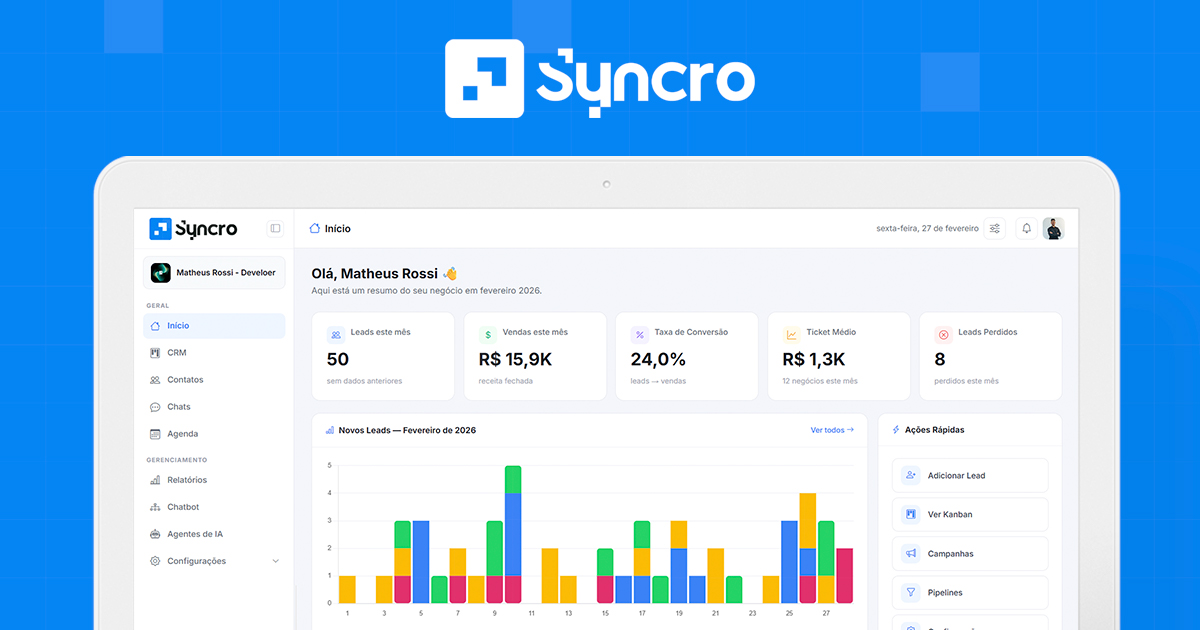
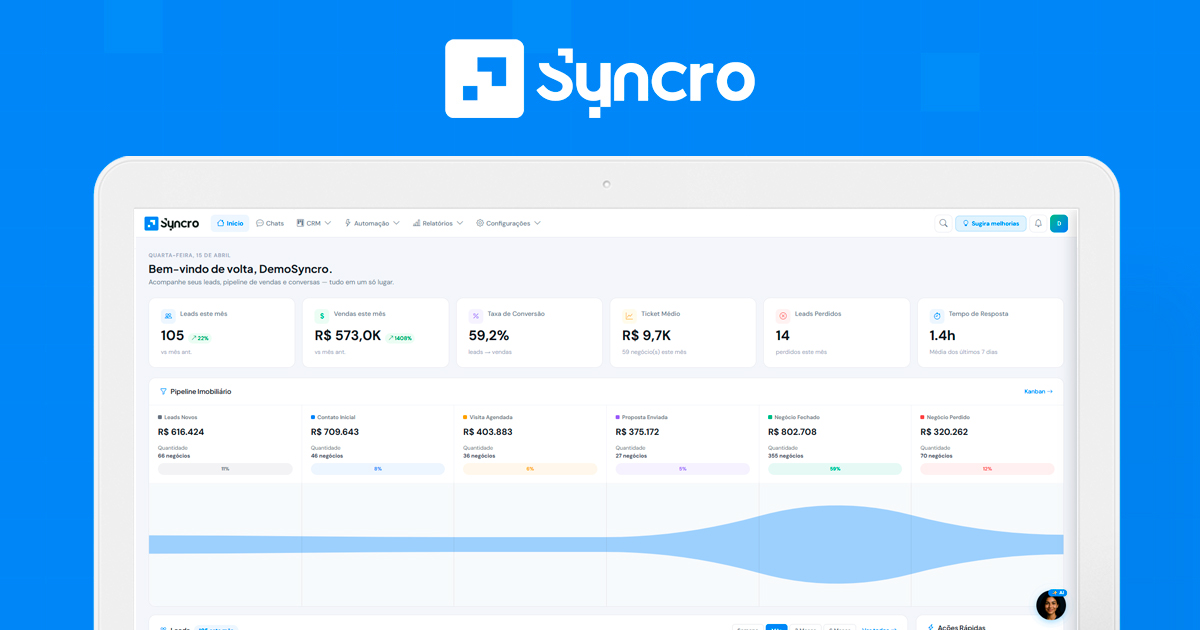
feat(analytics): GA tag em todas as páginas + atualiza shared-image.jpg
- Inclui partial partials/_google-analytics em 26 views que tinham <head> sem GA:
  errors/* (403/404/419/429/500/503), forms públicos + thanks + closed,
  survey/* (public/thanks/expired), onboarding/* (index/loading/result),
  tenant/account/* (suspended/trial-expired), billing/checkout,
  feedback/create, partner/certificate-public, public/privacy + terms,
  chatbot/hosted, settings/_wacloud-callback
- Fora de escopo (JS não roda lá): emails/_layout, PDFs (reports + campaigns)
- Atualiza public/images/shared-image.jpg (nova versão pelo user)

Cobertura total de GA G-6B1SD0KNZM agora: 40 views (era 14).

diff --git a/resources/views/tenant/billing/checkout.blade.php b/resources/views/tenant/billing/checkout.blade.php
@@ -1,6 +1,7 @@
 <!DOCTYPE html>
 <html lang="{{ app()->getLocale() === 'pt_BR' ? 'pt-BR' : 'en' }}">
 <head>
+    @include("partials._google-analytics")
     <meta charset="UTF-8">
     <meta name="viewport" content="width=device-width, initial-scale=1.0">
     <meta name="csrf-token" content="{{ csrf_token() }}">

diff --git a/resources/views/tenant/onboarding/index.blade.php b/resources/views/tenant/onboarding/index.blade.php
@@ -1,6 +1,7 @@
 <!DOCTYPE html>
 <html lang="{{ str_replace('_', '-', app()->getLocale()) }}">
 <head>
+    @include("partials._google-analytics")
     <meta charset="UTF-8">
     <meta name="viewport" content="width=device-width, initial-scale=1.0">
     <meta name="csrf-token" content="{{ csrf_token() }}">

diff --git a/resources/views/tenant/onboarding/loading.blade.php b/resources/views/tenant/onboarding/loading.blade.php
@@ -1,6 +1,7 @@
 <!DOCTYPE html>
 <html lang="{{ str_replace('_', '-', app()->getLocale()) }}">
 <head>
+    @include("partials._google-analytics")
     <meta charset="UTF-8">
     <meta name="viewport" content="width=device-width, initial-scale=1.0">
     <meta name="csrf-token" content="{{ csrf_token() }}">

diff --git a/resources/views/tenant/onboarding/result.blade.php b/resources/views/tenant/onboarding/result.blade.php
@@ -1,6 +1,7 @@
 <!DOCTYPE html>
 <html lang="{{ str_replace('_', '-', app()->getLocale()) }}">
 <head>
+    @include("partials._google-analytics")
     <meta charset="UTF-8">
     <meta name="viewport" content="width=device-width, initial-scale=1.0">
     <meta name="csrf-token" content="{{ csrf_token() }}">

diff --git a/resources/views/chatbot/hosted.blade.php b/resources/views/chatbot/hosted.blade.php
@@ -1,6 +1,7 @@
 <!DOCTYPE html>
 <html lang="pt-BR">
 <head>
+    @include("partials._google-analytics")
     <meta charset="UTF-8">
     <meta name="viewport" content="width=device-width, initial-scale=1.0, maximum-scale=1.0, user-scalable=no">
     <title>{{ $botName }} — {{ $tenantName }}</title>

diff --git a/resources/views/forms/public-conversational.blade.php b/resources/views/forms/public-conversational.blade.php
@@ -1,6 +1,7 @@
 <!DOCTYPE html>
 <html lang="{{ $form->tenant?->locale ?? 'pt_BR' }}">
 <head>
+    @include("partials._google-analytics")
     <meta charset="UTF-8">
     <meta name="viewport" content="width=device-width, initial-scale=1.0">
     <meta name="csrf-token" content="{{ csrf_token() }}">

diff --git a/resources/views/forms/public-multistep.blade.php b/resources/views/forms/public-multistep.blade.php
@@ -1,6 +1,7 @@
 <!DOCTYPE html>
 <html lang="{{ $form->tenant?->locale ?? 'pt_BR' }}">
 <head>
+    @include("partials._google-analytics")
     <meta charset="UTF-8">
     <meta name="viewport" content="width=device-width, initial-scale=1.0">
     <meta name="csrf-token" content="{{ csrf_token() }}">

diff --git a/resources/views/forms/public.blade.php b/resources/views/forms/public.blade.php
@@ -1,6 +1,7 @@
 <!DOCTYPE html>
 <html lang="{{ $form->tenant?->locale ?? 'pt_BR' }}">
 <head>
+    @include("partials._google-analytics")
     <meta charset="UTF-8">
     <meta name="viewport" content="width=device-width, initial-scale=1.0">
     <meta name="csrf-token" content="{{ csrf_token() }}">

diff --git a/resources/views/tenant/settings/_wacloud-callback.blade.php b/resources/views/tenant/settings/_wacloud-callback.blade.php
@@ -1,6 +1,7 @@
 <!DOCTYPE html>
 <html lang="pt-BR">
 <head>
+    @include("partials._google-analytics")
     <meta charset="UTF-8">
     <meta name="viewport" content="width=device-width, initial-scale=1.0">
     <title>{{ $success ? 'WhatsApp Cloud conectado!' : 'Erro' }}</title>

diff --git a/resources/views/tenant/account/suspended.blade.php b/resources/views/tenant/account/suspended.blade.php
@@ -1,6 +1,7 @@
 <!DOCTYPE html>
 <html lang="pt-BR">
 <head>
+    @include("partials._google-analytics")
     <meta charset="UTF-8">
     <meta name="viewport" content="width=device-width, initial-scale=1.0">
     <title>Conta Suspensa — {{ config('app.name') }}</title>

diff --git a/resources/views/tenant/account/trial-expired.blade.php b/resources/views/tenant/account/trial-expired.blade.php
@@ -1,6 +1,7 @@
 <!DOCTYPE html>
 <html lang="pt-BR">
 <head>
+    @include("partials._google-analytics")
     <meta charset="UTF-8">
     <meta name="viewport" content="width=device-width, initial-scale=1.0">
     <title>Trial Expirado — {{ config('app.name') }}</title>

diff --git a/resources/views/partner/certificate-public.blade.php b/resources/views/partner/certificate-public.blade.php
@@ -1,6 +1,7 @@
 <!DOCTYPE html>
 <html lang="pt-BR">
 <head>
+    @include("partials._google-analytics")
     <meta charset="UTF-8">
     <meta name="viewport" content="width=device-width, initial-scale=1.0">
     <title>Certificado — {{ config('app.name') }}</title>
